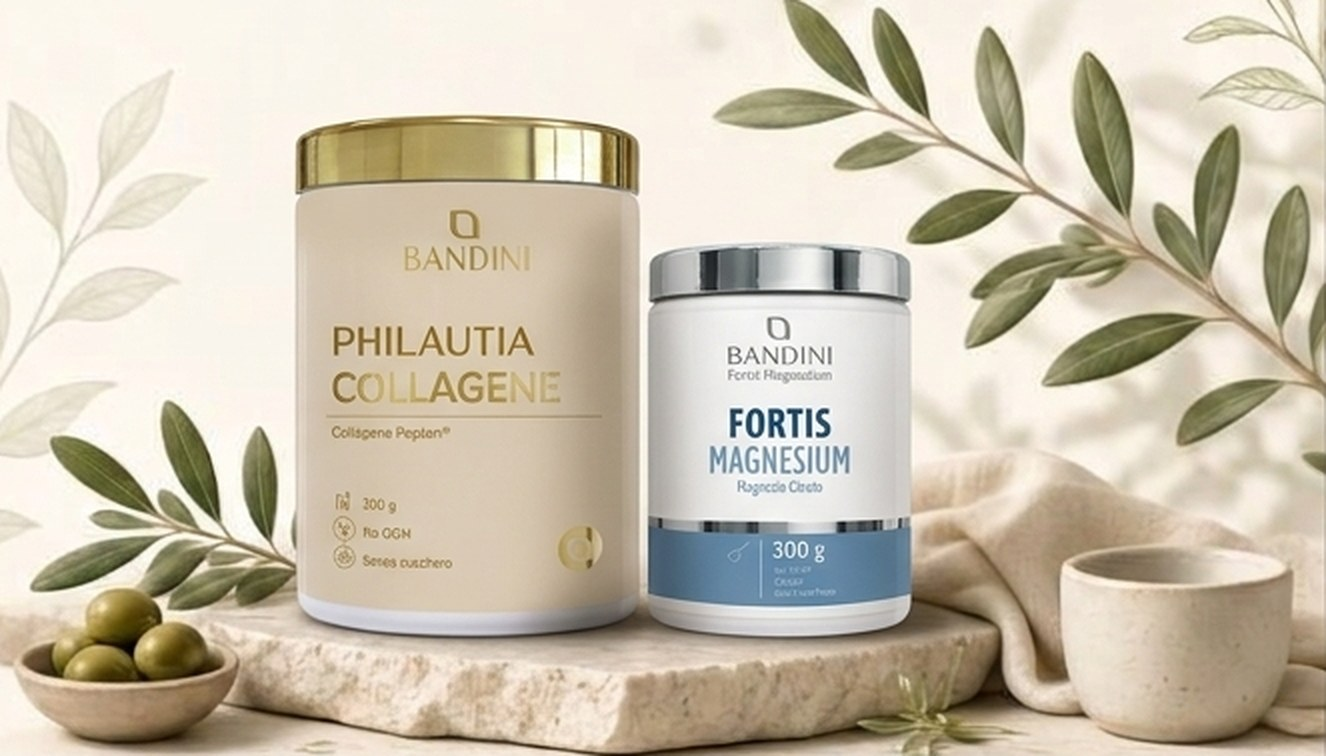
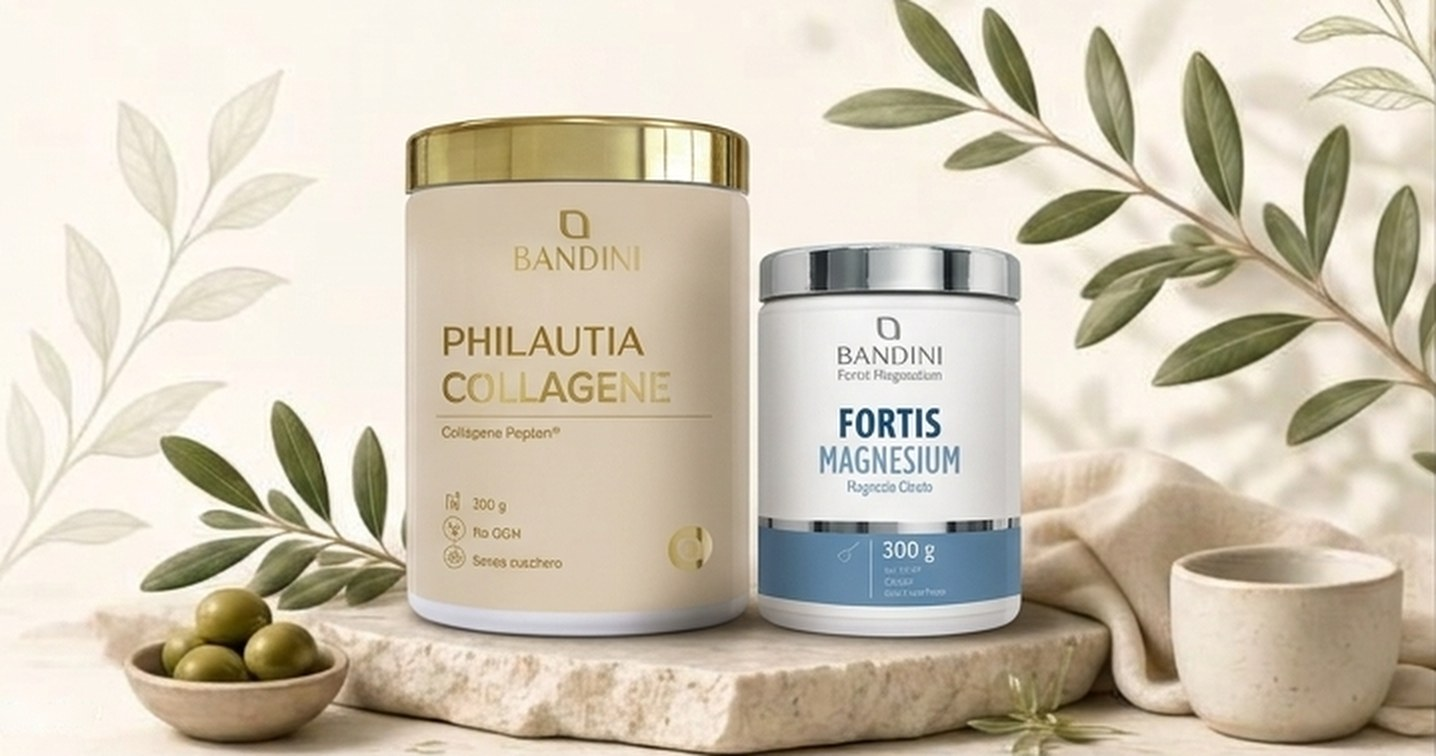
Add files via upload

diff --git a/style.css b/style.css
@@ -435,8 +435,8 @@ html[data-theme=dark]{--photo:#ffffff;--card:#1c241d}
 
 /* v9: hero with real jars, no cropping of lids */
 .hero .hero-img{background-size:cover;background-position:left bottom}
-@media(max-width:900px){.hero .hero-img{aspect-ratio:663/378;background-size:cover;background-position:center bottom}}
-@media(min-width:901px){.hero .hero-img{aspect-ratio:663/378;min-height:0;background-position:left center}}
+@media(max-width:900px){.hero .hero-img{aspect-ratio:718/378;background-size:cover;background-position:center bottom}}
+@media(min-width:901px){.hero .hero-img{aspect-ratio:718/378;min-height:0;background-position:left center}}
 
 /* v10: photo covers for articles */
 .acover{aspect-ratio:16/9;max-height:none}
@@ -447,9 +447,9 @@ html,body{overflow-x:clip}
   margin:6px calc(50% - 50vw) 10px;padding:0 0 0 calc(50vw - 50%);position:relative;
   grid-template-columns:.88fr 1.12fr;gap:0;align-items:center}
 .hero .hero-text{padding:30px 10px 30px 0}
-.hero .hero-img{align-self:start;min-height:0;aspect-ratio:663/378;background-size:100% auto;background-position:right top;background-repeat:no-repeat;
-  -webkit-mask-image:linear-gradient(90deg,transparent 0,#000 11%),linear-gradient(180deg,transparent 0,#000 10%,#000 92%,transparent 100%);
-  mask-image:linear-gradient(90deg,transparent 0,#000 11%),linear-gradient(180deg,transparent 0,#000 10%,#000 92%,transparent 100%);
+.hero .hero-img{align-self:start;min-height:0;aspect-ratio:718/378;background-size:100% auto;background-position:right top;background-repeat:no-repeat;
+  -webkit-mask-image:linear-gradient(90deg,transparent 0,#000 6%),linear-gradient(180deg,transparent 0,#000 10%,#000 92%,transparent 100%);
+  mask-image:linear-gradient(90deg,transparent 0,#000 6%),linear-gradient(180deg,transparent 0,#000 10%,#000 92%,transparent 100%);
   -webkit-mask-composite:source-in;mask-composite:intersect}
 @media(max-width:900px){
   .hero{grid-template-columns:1fr;padding:0}

diff --git a/index.html b/index.html
@@ -18,7 +18,7 @@
 <link href="https://fonts.googleapis.com/css2?family=family=Newsreader:opsz,wght@6..72,500;6..72,600&family=Figtree:wght@400;500;600;700&display=swap" rel="stylesheet">
 <script>(function(){var t=null;try{t=localStorage.getItem("bf_theme")}catch(e){}var d=t?t==="dark":(window.matchMedia&&matchMedia("(prefers-color-scheme: dark)").matches);if(d)document.documentElement.setAttribute("data-theme","dark")})()</script>
 <meta name="theme-color" content="#faf5ea">
-<link rel="stylesheet" href="style.css?v=22">
+<link rel="stylesheet" href="style.css?v=23">
 </head>
 <body>
 <header class="top">
@@ -75,8 +75,8 @@
   <div class="dbody" id="drawerBody"></div>
   <div class="dfoot" id="drawerFoot"></div>
 </aside>
-<script src="data.js?v=22"></script>
-<script src="guide_idx.js?v=22"></script>
-<script src="app.js?v=22"></script>
+<script src="data.js?v=23"></script>
+<script src="guide_idx.js?v=23"></script>
+<script src="app.js?v=23"></script>
 </body>
 </html>
